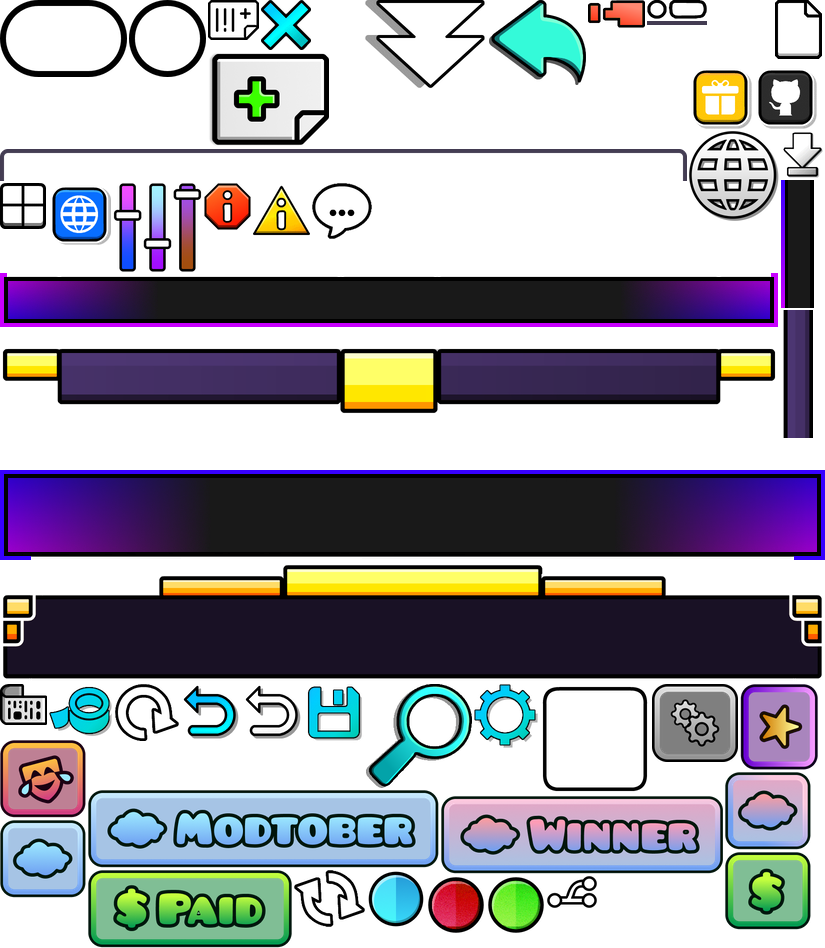
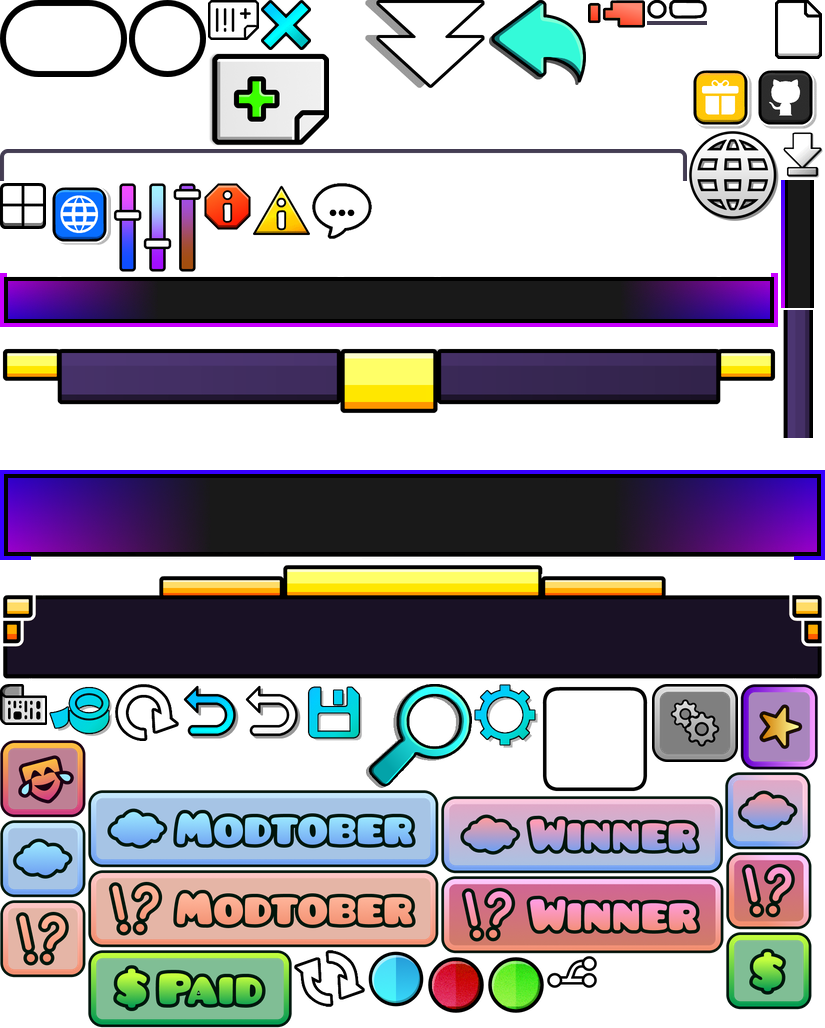
Update Geode APISheet

diff --git a/changelog.md b/changelog.md
@@ -1,5 +1,8 @@
 All dates are listed in MM/DD/YY and times are in EST/EDT.
 
+# v1.19.13
+- Geode: Updated APISheet for Modtober 2025 (this is long overdue...)
+
 # v1.19.12 (10/3/25)
 - Added DevTools support
 - Added Trail Pro Max support
